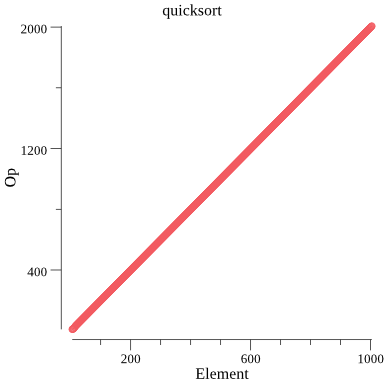
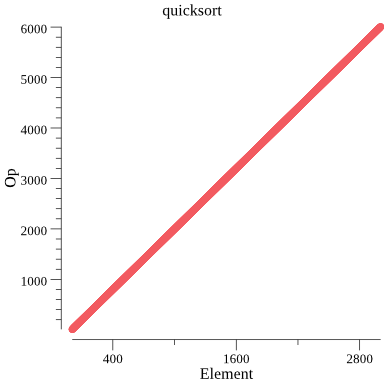
Added some time. Quicksort is 5x faster than mergesort.

diff --git a/merge_sort/main.go b/merge_sort/main.go
@@ -10,7 +10,7 @@ func main() {
 	plotY := []float64{}
 	a := []int{4, 3, 2, 1}
 
-	for i := 0; i < 1000; i++ {
+	for i := 0; i < 3000; i++ {
 		op = 0
 		a = append(a, i)
 		for i, j := 0, len(a)-1; i < j; i, j = i+1, j-1 {
@@ -26,5 +26,5 @@ func main() {
 		pts[i].X = plotX[i]
 		pts[i].Y = plotY[i]
 	}
-	algoplotter.PlotChart(pts, "Merge Sort", "merge_sort")
+	algoplotter.PlotChart(pts, "merge_sort", "Merge Sort")
 }

diff --git a/quicksort/main.go b/quicksort/main.go
@@ -10,7 +10,7 @@ func main() {
 	plotY := []float64{}
 	a := []int{4, 3, 2, 1}
 
-	for i := 0; i < 1000; i++ {
+	for i := 0; i < 3000; i++ {
 		op = 0
 		a = append(a, i)
 		for i, j := 0, len(a)-1; i < j; i, j = i+1, j-1 {
@@ -26,5 +26,5 @@ func main() {
 		pts[i].X = plotX[i]
 		pts[i].Y = plotY[i]
 	}
-	algoplotter.PlotChart(pts, "Quicksort", "quicksort")
+	algoplotter.PlotChart(pts, "quicksort", "Quicksort")
 }

diff --git a/merge_sort/README.md b/merge_sort/README.md
@@ -7,3 +7,7 @@ Graph generated via [gonum-plot](https://github.com/gonum/plot).
 Plot:
 
 ![merge_sort](./merge_sort.png)
+
+Time:
+
+17 seconds with 3000 iterations.

diff --git a/quicksort/README.md b/quicksort/README.md
@@ -7,3 +7,5 @@ Graph generated via [gonum-plot](https://github.com/gonum/plot).
 Plot:
 
 ![quicksort](./Quicksort.png)
+
+3 seconds with 3000 iterations.
